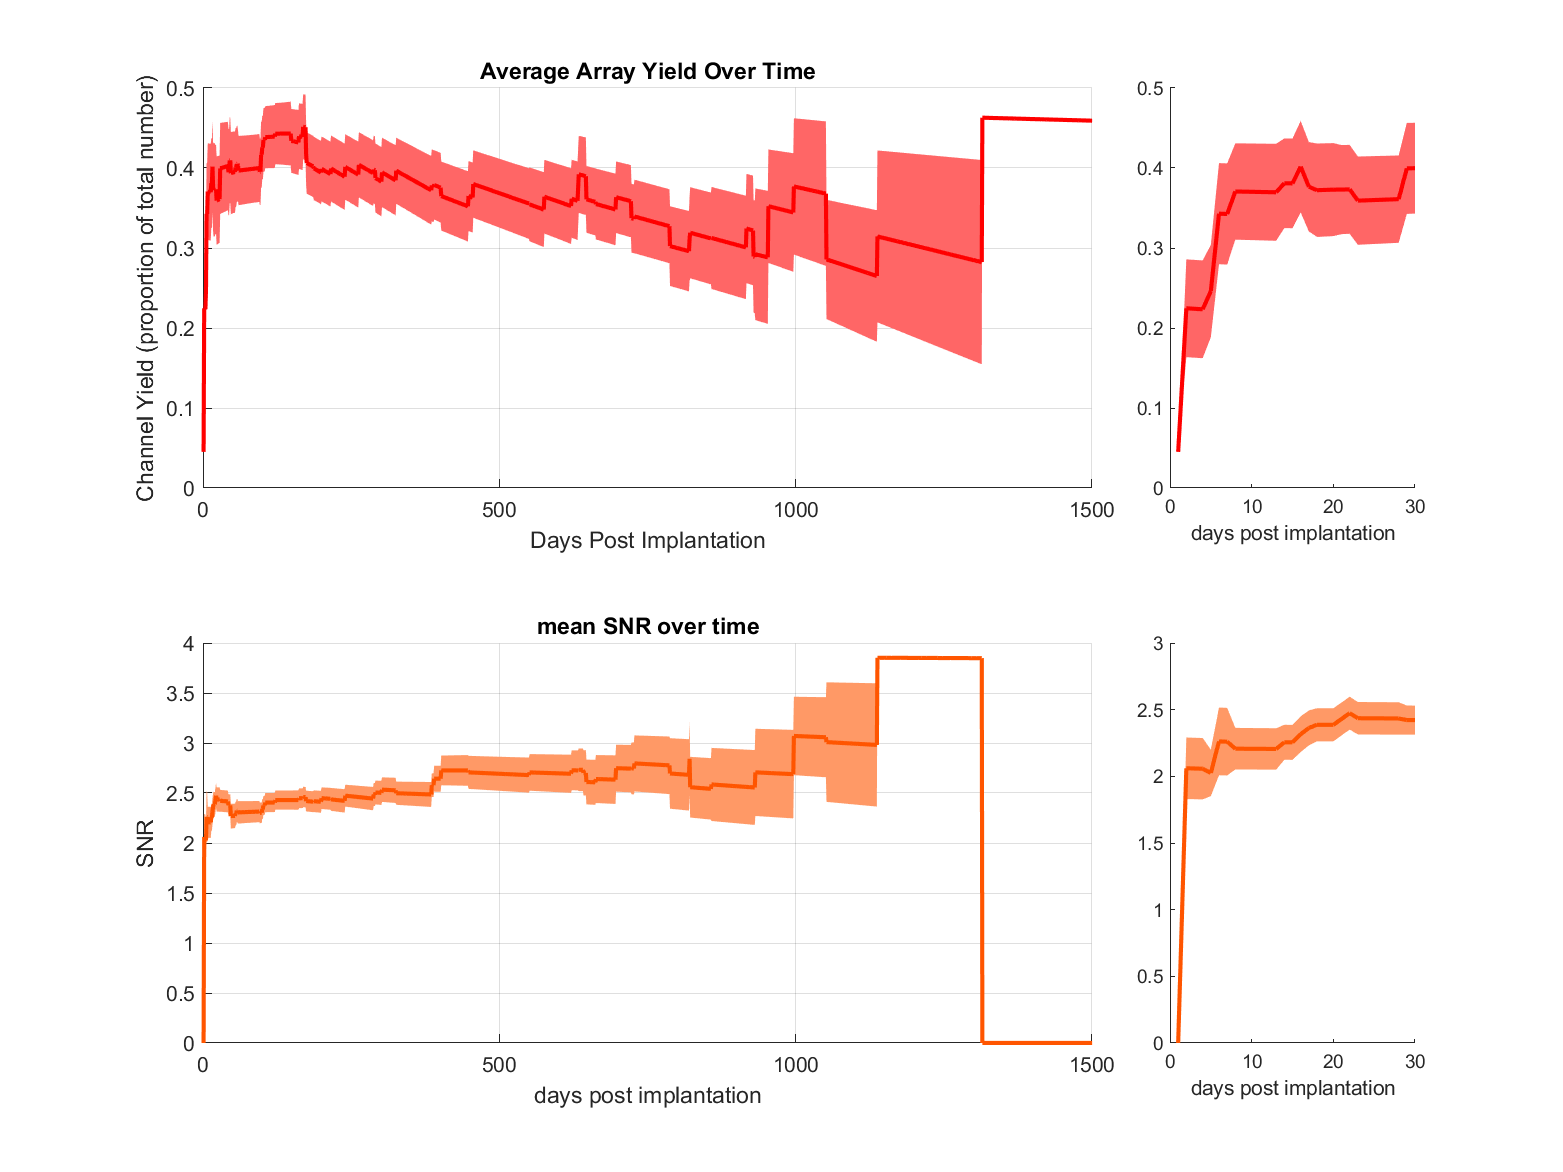
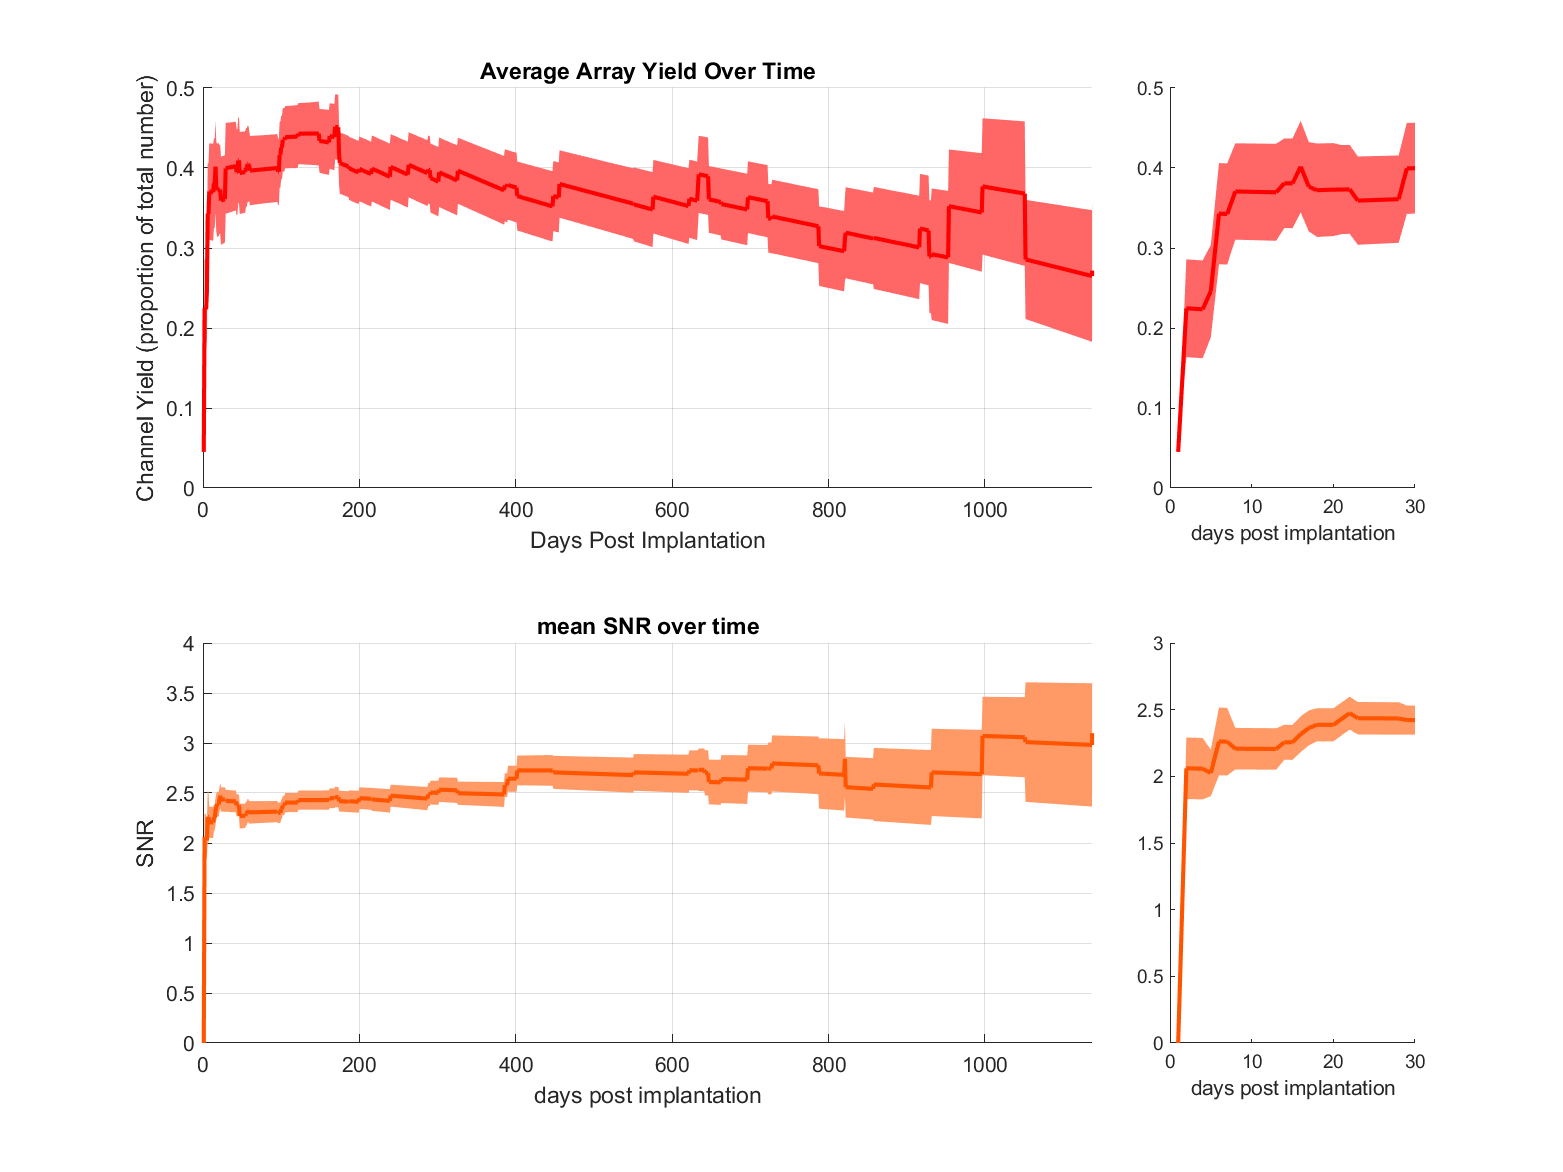
fixed xlim to crop out Mack weirdness

diff --git a/code/paper_figures_code/figure_two.m b/code/paper_figures_code/figure_two.m
@@ -80,7 +80,7 @@ patch_color = hsv2rgb(HSV_color);
 % patch() is a great way to create error bars.
 patch([1:length(avg_channels) fliplr(1:length(avg_channels))],[avg_channels+std_err_channels fliplr(avg_channels-std_err_channels)],patch_color,'edgecolor','none')
 plot(avg_channels,'linewidth',2,'Color',colors(1,:));
-xlim([0 1500])
+xlim([0 1137])
 
 
 box off
@@ -106,7 +106,7 @@ clear subject_lines
 clear averaging_count
 %% Figure 2b. Mean (se) SNR over all arrays versus DPI.
 
-% I used the same approach as the channel yielf for SNR - calculate linear
+% I used the same approach as the channel yield for SNR - calculate linear
 % regressions for each array's data, then average all of the fits together.
 % idk maybe it's okay, maybe it's not. 
 
@@ -162,7 +162,7 @@ patch_color = hsv2rgb(HSV_color);
 
 patch([1:length(avg_SNR) fliplr(1:length(avg_SNR))],[avg_SNR-std_err_SNR fliplr(avg_SNR+std_err_SNR)],patch_color,'edgecolor','none')
 plot(avg_SNR,'linewidth',2,'Color',colors(2,:));
-xlim([0 1500])
+xlim([0 1137])
 
 box off
 grid on
